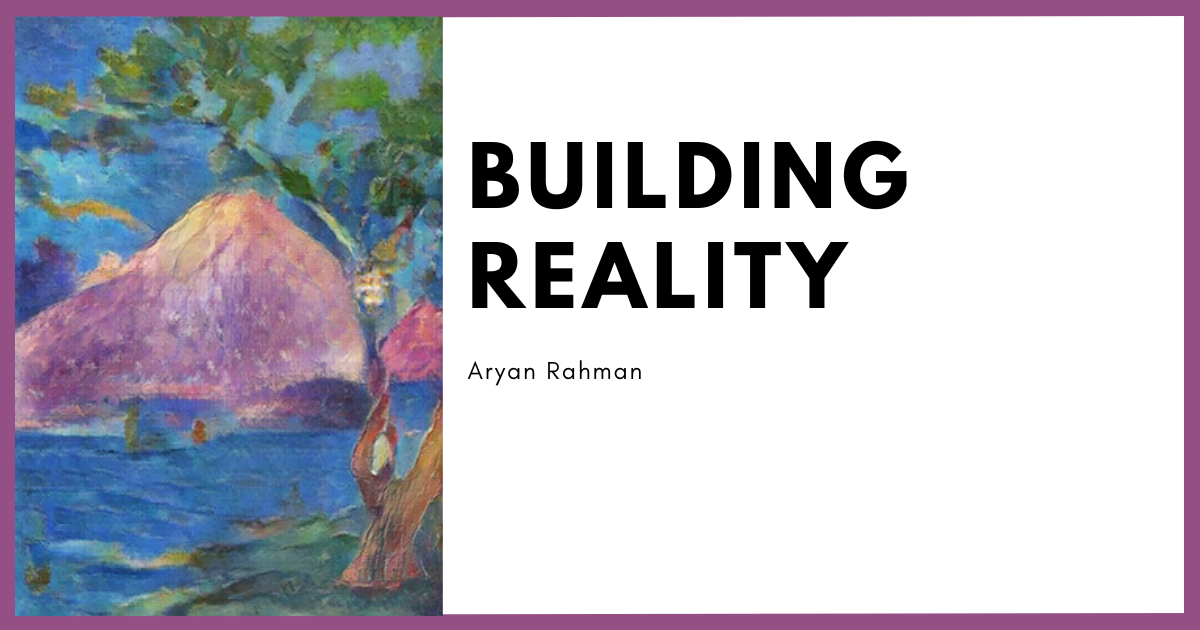
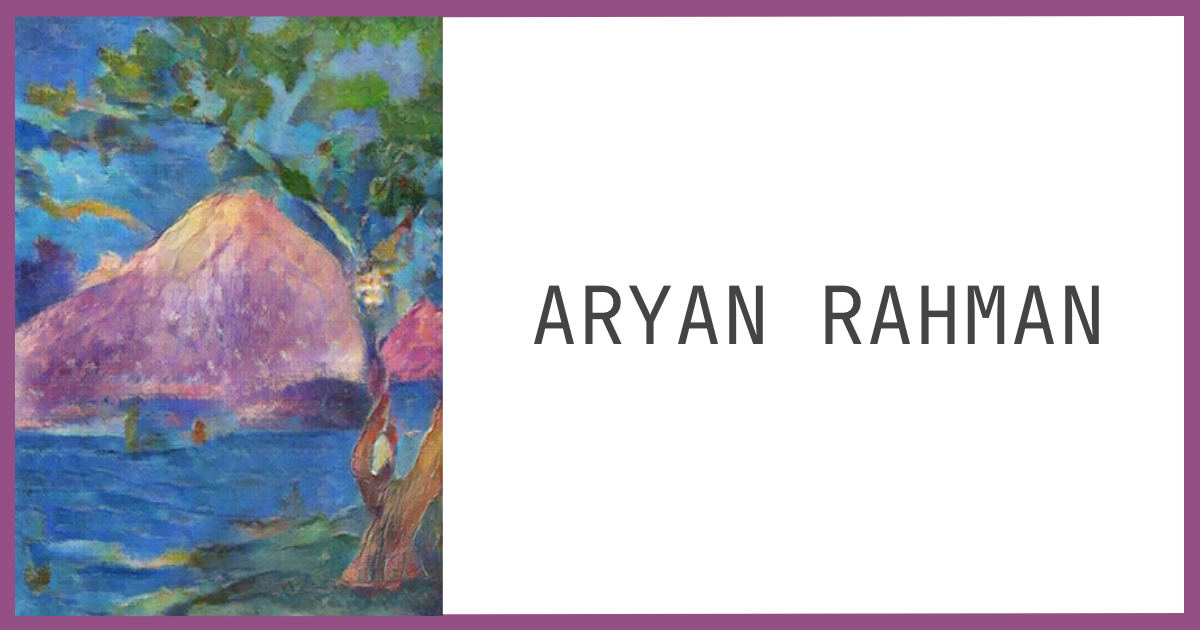
chore: update site metadata and improve header styles
- Changed site name and short name in the web manifest and site configuration to reflect new branding.
- Updated header styles in the index page for better visibility and consistency, including adjustments to font sizes and section titles.

Changed region(s): [[0.37, 0.3619, 0.925, 0.5429], [0.37, 0.2111, 0.7708, 0.3317], [0.37, 0.573, 0.5242, 0.6032]]

diff --git a/src/data/site.config.ts b/src/data/site.config.ts
@@ -12,7 +12,7 @@ export const siteConfig: SiteConfig = {
 	// Used as both a meta property (src/components/BaseHead.astro L:31 + L:49) & the generated satori png (src/pages/og-image/[slug].png.ts)
 	author: 'Aryan Rahman',
 	// Meta property used to construct the meta title property, found in src/components/BaseHead.astro L:11
-	title: 'Aryan Rahman: Building Reality',
+	title: 'Aryan Rahman: Software Engineer',
 	// Meta property used as the default description meta property
 	description:
 		'Blog and website for Aryan Rahman, full-stack software product engineer based in Bangladesh',
